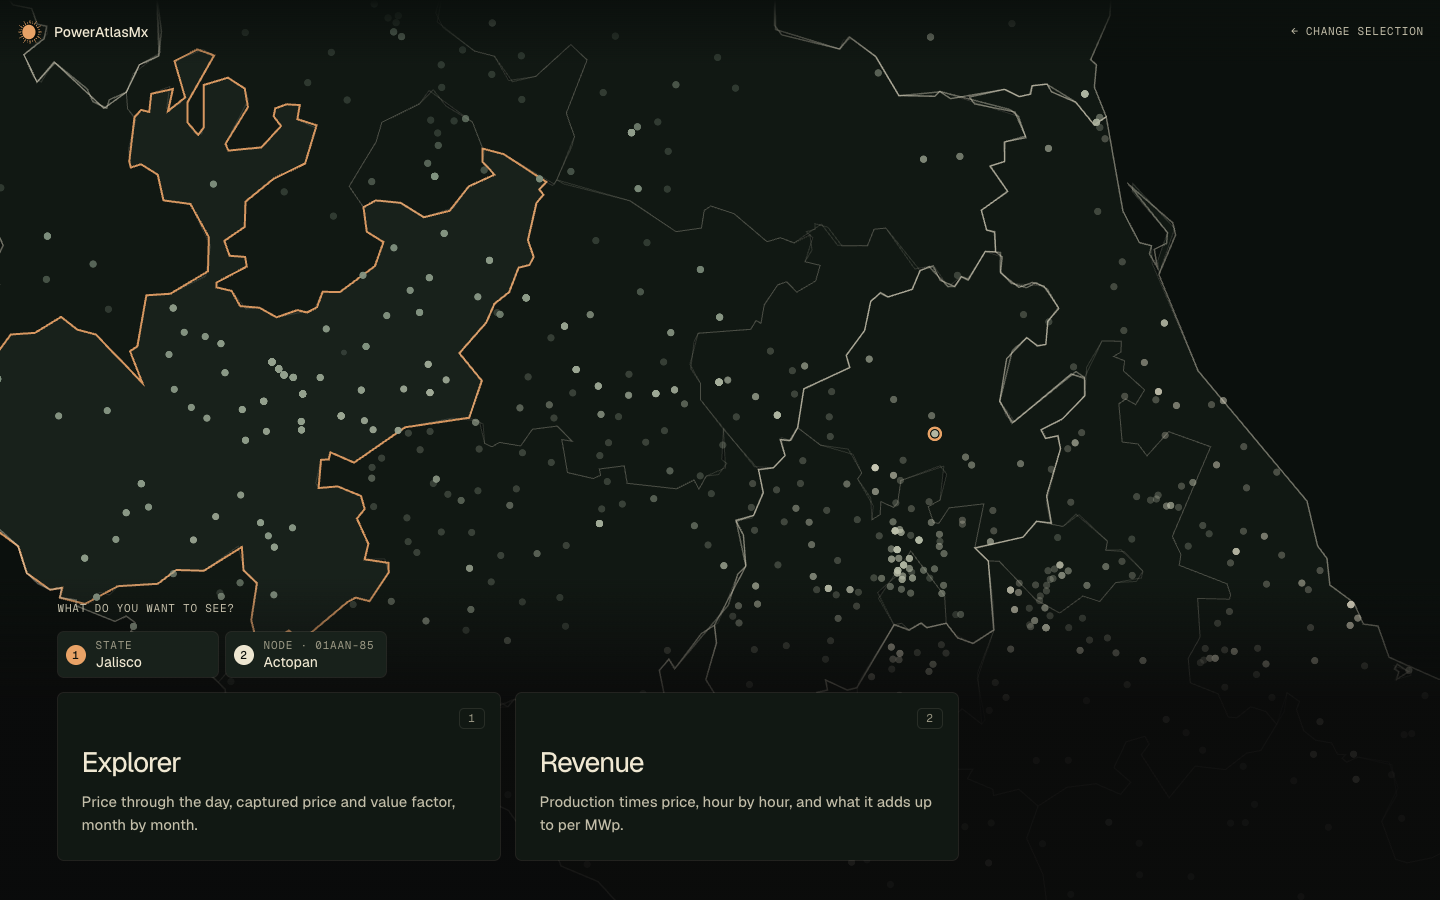
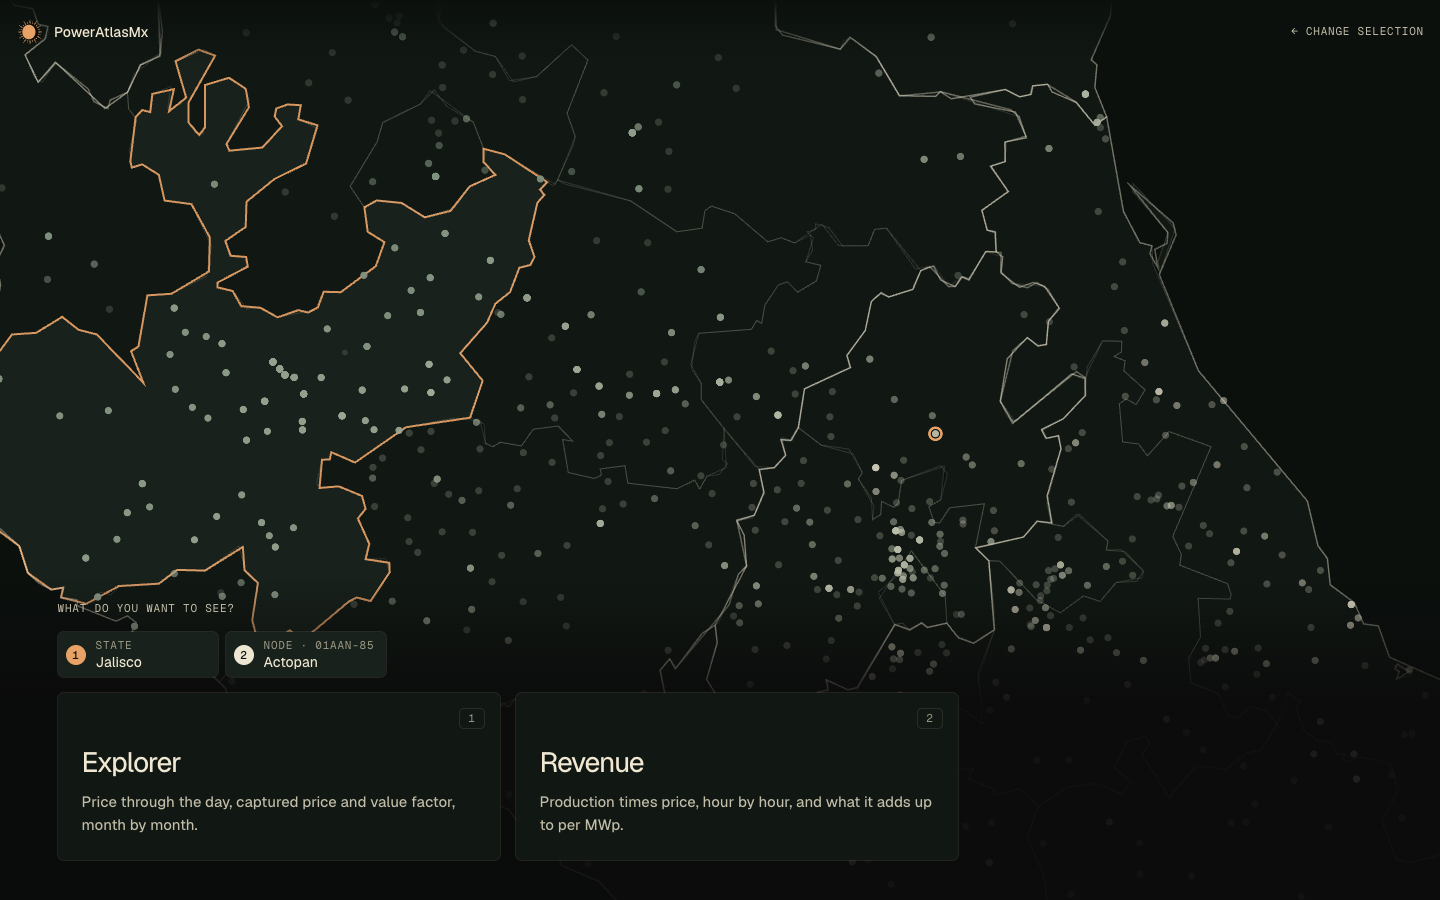
v2: fix M3 routing and focus

diff --git a/web/v2/main.js b/web/v2/main.js
@@ -2,8 +2,7 @@
 //   #/ landing -> #/map -> #/choose -> #/explorer | #/revenue   (selection in ?sel=)
 import { renderLanding } from './assets/js/landing.js';
 import { getShell, frames, reducedMotion } from './assets/js/shell.js';
-import { parseHash, hrefFor } from './assets/js/nav.js';
-import { parseSel, serializeSel } from './assets/js/store.js';
+import { createRouter } from './assets/js/route-logic.js';
 
 const view = document.getElementById('view');
 const EASE = 'cubic-bezier(.2, .8, .2, 1)';
@@ -16,7 +15,10 @@ const LOADERS = {
   '/revenue': async () => { const m = (await import('./assets/js/analysis.js')).mountAnalysis; return (r, o) => m(r, { ...o, view: 'revenue' }); },
 };
 const go = (href) => { location.hash = href; };
-let cur = null, curPath = null, queue = Promise.resolve();
+let cur = null, queue = Promise.resolve();
+const live = document.getElementById('live');
+const NAMES = { '/': 'Home', '/map': 'Map', '/choose': 'Choose a view', '/explorer': 'Explorer', '/revenue': 'Revenue' };
+
 
 async function mount(path) {
   const fn = await LOADERS[path]();
@@ -26,8 +28,19 @@ async function mount(path) {
 }
 const fade = (el, from, to, ms = 350) => el.animate([{ opacity: from, transform: `translateY(${from < to ? 8 : 0}px)` }, { opacity: to, transform: 'none' }], { duration: ms, easing: EASE }).finished.catch(() => {});
 
+/** transform FLIP of the map host from its old rect to its new rect (fallback when view transitions are missing). */
+function flip(host, first) {
+  const last = host.getBoundingClientRect();
+  if (!first.width || !last.width) return Promise.resolve();
+  const dx = first.left - last.left, dy = first.top - last.top, sx = first.width / last.width, sy = first.height / last.height;
+  return host.animate([{ transformOrigin: 'top left', transform: `translate(${dx}px, ${dy}px) scale(${sx}, ${sy})` }, { transformOrigin: 'top left', transform: 'none' }],
+    { duration: 450, easing: EASE }).finished.catch(() => {});
+}
+
 async function viewSwap(path, shell) {
   const mode = MODE[path];
+  const first = shell.host.getBoundingClientRect();
+  const wasHidden = shell.host.classList.contains('is-hidden');
   const update = async () => {
     await mount(path);
     shell.setMode(mode);
@@ -36,7 +49,11 @@ async function viewSwap(path, shell) {
   };
   if (reducedMotion()) await update();
   else if (document.startViewTransition) await document.startViewTransition(update).finished.catch(() => {});
-  else { await update(); await fade(view, 0, 1); }
+  else {
+    await update();
+    await Promise.all([fade(view, 0, 1), wasHidden ? null : flip(shell.host, first)]);
+  }
+  if (shell.mv) shell.mv.redraw(); // deck resize at the end of the morph
   if (path === '/choose' && shell.mv) shell.fit(700, 'choose');
 }
 
@@ -62,35 +79,48 @@ async function toLanding(shell) {
   shell.setMode('hidden');
 }
 
+const router = createRouter({
+  store: getShell().store,
+  valid: () => {
+    const sh = getShell();
+    if (!sh.atlas || !sh.geo) return null;
+    const ids = new Set(sh.atlas.nodes.map((n) => n.id));
+    const st = new Set(sh.geo.states.features.map((f) => f.properties.key));
+    const rg = new Set(sh.geo.regions.features.map((f) => f.properties.key));
+    return { node: (id) => ids.has(id), state: (k) => st.has(k), region: (k) => rg.has(k) };
+  },
+  replace: (h) => history.replaceState(null, '', h),
+});
+
+/** move focus to the page heading and announce the route (never while the user is typing). */
+function announce(path) {
+  const t = NAMES[path];
+  document.title = path === '/' ? 'PowerAtlasMx by REPSA Group' : `${t} · PowerAtlasMx`;
+  if (live) { live.textContent = ''; setTimeout(() => { live.textContent = t; }, 50); }
+  const a = document.activeElement;
+  if (a && (a.tagName === 'INPUT' || a.tagName === 'TEXTAREA')) return;
+  const h = view.querySelector('h1') || view.querySelector('main');
+  if (h) { h.tabIndex = -1; h.focus({ preventScroll: true }); }
+}
+
 async function route() {
-  const { path: raw, sel } = parseHash();
-  const path = LOADERS[raw] ? raw : '/';
   const shell = getShell();
-  if (sel) {
-    const list = parseSel(sel);
-    if (serializeSel(list) !== serializeSel(shell.store.get())) shell.store.set(list);
-  }
-  if (MODE[path] !== 'hidden' && path !== '/map' && !shell.store.get().length) { location.replace('#/map'); return; }
-  if (path === curPath) return;
-  const prev = curPath;
-  curPath = path;
-  document.title = { '/': 'PowerAtlasMx by REPSA Group', '/map': 'Map · PowerAtlasMx', '/choose': 'Choose · PowerAtlasMx', '/explorer': 'Explorer · PowerAtlasMx', '/revenue': 'Revenue · PowerAtlasMx' }[path];
+  if (/sel=/.test(location.hash)) await shell.init(); // ids are validated against the atlas
+  const { path, prev, changed } = router.resolve(location.hash);
+  if (prev !== null && !changed) { if (path !== '/map' && path !== '/') await mount(path); return; } // same route, other selection
   if (prev === null) {
     await mount(path); shell.setMode(MODE[path]);
     if (path === '/') (window.requestIdleCallback ? (f) => window.requestIdleCallback(f, { timeout: 1500 }) : (f) => setTimeout(f, 600))(() => shell.init());
     else shell.init().then(() => shell.fit(0, path === '/choose' ? 'choose' : null));
+    announce(path);
     return;
   }
   shell.init();
   if (prev === '/' && path === '/map') await portal(shell);
   else if (path === '/') await toLanding(shell);
   else await viewSwap(path, shell);
+  announce(path);
 }
 
-// keep the hash in sync with the selection on every route (replace, no history spam)
-getShell().store.subscribe((list) => {
-  if (!curPath || curPath === '/') return;
-  history.replaceState(null, '', hrefFor(curPath, list));
-});
 window.addEventListener('hashchange', () => { queue = queue.then(route).catch(console.error); });
 queue = queue.then(route).catch(console.error);

diff --git a/web/v2/assets/js/map-page.js b/web/v2/assets/js/map-page.js
@@ -15,6 +15,7 @@ export function mountMap(root) {
   const shell = getShell();
   root.innerHTML = `
   <div class="overlay map-overlay">
+    <h1 class="sr">Map</h1>
     <header class="nav nav-map">
       <a class="brand" href="#/" aria-label="${CONFIG.PRODUCT}, home">${eclipseSVG()}<span>${CONFIG.PRODUCT}</span></a>
       <span class="spacer"></span>
@@ -26,7 +27,7 @@ export function mountMap(root) {
       <div class="seg" role="radiogroup" aria-labelledby="metric-lbl" id="seg"></div>
       <p class="hint" id="hint"></p>
       <ul class="chips" id="chips" aria-label="Selection"></ul>
-      <p class="live mono" id="live" role="status" aria-live="polite"></p>
+      <p class="live mono" id="say" role="status" aria-live="polite"></p>
       <a class="btn btn-cream btn-sm cont" id="cont" href="#/choose" aria-disabled="true">Continue</a>
       <div class="legend"><div class="ramp" id="ramp"></div><div class="lg mono" id="lg"></div><p class="lgnote" id="lgnote"></p></div>
       <dl class="facts mono">
@@ -44,8 +45,9 @@ export function mountMap(root) {
     <div class="nogl" id="nogl" hidden><p>The map needs WebGL, which this browser has turned off. You can still search and select places on the left.</p></div>
   </div>`;
   const q = (s) => root.querySelector(s);
+  let dead = false;
   if (!shell.hasGL) { q('#nogl').hidden = false; q('.zoom').hidden = true; }
-  shell.sayFn = (t) => { q('#live').textContent = t; };
+  shell.sayFn = (t) => { q('#say').textContent = t; };
 
   // metric switch
   const seg = q('#seg');
@@ -111,7 +113,7 @@ export function mountMap(root) {
 
   setMetric(shell.metric);
   shell.init().then(() => {
-    if (!q('#sel-slot')) return;
+    if (dead || !q('#sel-slot')) return;
     if (shell.failed && !shell.atlas) { shell.say('Data failed to load.'); return; }
     q('#cfg').textContent = `${shell.atlas.config === 'tracker' ? 'Single-axis tracker' : shell.atlas.config} (only configuration in the analysis)`;
     const sel = createSelector({ entries: buildEntries(shell.geo, shell.atlas.nodes), onPick: (x) => shell.pick(x) });
@@ -121,5 +123,5 @@ export function mountMap(root) {
     legend(shell.domain());
   });
 
-  return { destroy() { shell.hoverFn = null; shell.sayFn = null; offSel(); chips.destroy(); } };
+  return { destroy() { dead = true; shell.hoverFn = null; shell.sayFn = null; offSel(); chips.destroy(); } };
 }

diff --git a/web/v2/assets/js/route-logic.js b/web/v2/assets/js/route-logic.js
@@ -1,0 +1,33 @@
+// Pure routing logic (no DOM): hash -> {path, list, canonical hash}; selection sync that never writes a stale path.
+import { parseSel, serializeSel } from './store.js';
+
+export const ROUTES = ['/', '/map', '/choose', '/explorer', '/revenue'];
+const NEEDS_SEL = new Set(['/choose', '/explorer', '/revenue']);
+export const hrefFor = (path, list) => `#${path}${list && list.length && path !== '/' ? `?sel=${serializeSel(list)}` : ''}`;
+
+/** valid: null (unknown yet) or { node, state, region } predicates. */
+export function resolveHash(hash, valid = null) {
+  const [p, q] = String(hash || '').replace(/^#/, '').split('?');
+  let path = ROUTES.includes(p || '/') ? (p || '/') : '/';
+  const raw = new URLSearchParams(q || '').get('sel') || '';
+  const list = parseSel(raw, valid);
+  if (NEEDS_SEL.has(path) && !list.length) path = '/map';
+  return { path, list, hadSel: !!raw, hash: hrefFor(path, list) };
+}
+
+/** Router state: `cur` is updated BEFORE the store is synced, so the store subscriber always writes the new route. */
+export function createRouter({ store, valid = () => null, replace }) {
+  let cur = null;
+  store.subscribe((list) => { if (cur && cur !== '/') replace(hrefFor(cur, list)); });
+  return {
+    get path() { return cur; },
+    resolve(hash) {
+      const r = resolveHash(hash, valid());
+      const prev = cur;
+      cur = r.path;
+      if (r.hash !== hash) replace(r.hash);
+      if (r.hadSel && serializeSel(store.get()) !== serializeSel(r.list)) store.set(r.list);
+      return { path: r.path, prev, changed: prev !== r.path };
+    },
+  };
+}

diff --git a/web/v2/assets/js/store.js b/web/v2/assets/js/store.js
@@ -2,12 +2,25 @@
 export const MAX_SEL = 3;
 const key = (s) => (s.kind === 'national' ? 'national' : s.kind === 'node' ? s.id : `${s.kind}:${s.id}`);
 
-export function parseSel(str) {
-  return (str || '').split(',').map((t) => t.trim()).filter(Boolean).map((t) => {
-    if (t === 'national') return { kind: 'national', id: 'ALL' };
-    const m = /^(state|region):(.+)$/.exec(t);
-    return m ? { kind: m[1], id: decodeURIComponent(m[2]) } : { kind: 'node', id: t };
-  }).slice(0, MAX_SEL);
+/** Parse ?sel=. valid (optional) = { node(id), state(key), region(key) } predicates: unknown ids are dropped.
+ *  Duplicates are dropped and the result is capped at MAX_SEL, in order. */
+export function parseSel(str, valid = null) {
+  const out = [], seen = new Set();
+  for (const t of (str || '').split(',').map((x) => x.trim()).filter(Boolean)) {
+    let s;
+    if (t === 'national') s = { kind: 'national', id: 'ALL' };
+    else {
+      const m = /^(state|region):(.+)$/.exec(t);
+      if (m) { let id = m[2]; try { id = decodeURIComponent(id); } catch { /* keep raw */ } s = { kind: m[1], id }; }
+      else s = { kind: 'node', id: t };
+    }
+    if (valid && valid[s.kind] && !valid[s.kind](s.id)) continue;
+    const k = key(s);
+    if (seen.has(k)) continue;
+    seen.add(k); out.push(s);
+    if (out.length >= MAX_SEL) break;
+  }
+  return out;
 }
 export const serializeSel = (list) => list.map((s) => (s.kind === 'national' ? 'national' : s.kind === 'node' ? s.id : `${s.kind}:${encodeURIComponent(s.id)}`)).join(',');
 

diff --git a/web/v2/assets/css/flow.css b/web/v2/assets/css/flow.css
@@ -25,8 +25,11 @@
 .card p { margin: 0; color: var(--ink-2); }
 .card .key { position: absolute; top: 16px; right: 16px; color: var(--ink-3); padding: 2px 8px; border-radius: 4px; box-shadow: var(--ring); }
 .choose .back { color: var(--ink-2); text-decoration: none; }
-.choose-body > *, .cards .card { animation: rise var(--dur) var(--ease) both; }
-.cards .card:nth-child(2) { animation-delay: 40ms; }
+.choose-body > h1, .choose-body > .chips-row, .cards .card { animation: rise var(--dur) var(--ease) both; }
+.choose-body > .chips-row { animation-delay: 40ms; }
+.cards .card:nth-child(1) { animation-delay: 80ms; }
+.cards .card:nth-child(2) { animation-delay: 120ms; }
+h1:focus, main:focus { outline: none; }
 @keyframes rise { from { opacity: 0; transform: translateY(12px); } }
 
 .page { min-height: 100vh; background: var(--black); }
@@ -47,7 +50,7 @@
 ::view-transition-old(root), ::view-transition-new(root) { animation-duration: 350ms; }
 @media (prefers-reduced-motion: reduce) {
   ::view-transition-group(*), ::view-transition-old(*), ::view-transition-new(*) { animation: none !important; }
-  .choose-body > *, .cards .card { animation: none; }
+  .choose-body > h1, .choose-body > .chips-row, .cards .card { animation: none; }
 }
 @media (max-width: 760px) {
   .cards { grid-template-columns: 1fr; }

diff --git a/web/v2/assets/js/nav.js b/web/v2/assets/js/nav.js
@@ -1,7 +1,2 @@
-// Route helpers: hash <-> path + selection query.
-import { serializeSel } from './store.js';
-export function parseHash() {
-  const [p, q] = location.hash.replace(/^#/, '').split('?');
-  return { path: p || '/', sel: new URLSearchParams(q || '').get('sel') || '' };
-}
-export const hrefFor = (path, list) => `#${path}${list && list.length ? `?sel=${serializeSel(list)}` : ''}`;
+// Route helpers (re-exported from the pure router logic).
+export { hrefFor } from './route-logic.js';

diff --git a/web/v2/assets/js/choose.js b/web/v2/assets/js/choose.js
@@ -31,6 +31,5 @@ export function mountChoose(root, { go }) {
     else if (e.key === '2') go(hrefFor('/revenue', sel()));
   };
   document.addEventListener('keydown', onKey);
-  root.querySelector('#c-exp').focus({ preventScroll: true });
   return { destroy() { document.removeEventListener('keydown', onKey); chips.destroy(); } };
 }

diff --git a/web/v2/index.html b/web/v2/index.html
@@ -19,6 +19,7 @@
 <div id="app">
   <div id="maphost" class="maphost is-hidden"><div class="map-canvas"></div></div>
   <div id="view"></div>
+  <p id="live" class="sr" role="status" aria-live="polite"></p>
 </div>
 <script type="module" src="main.js"></script>
 </body>
